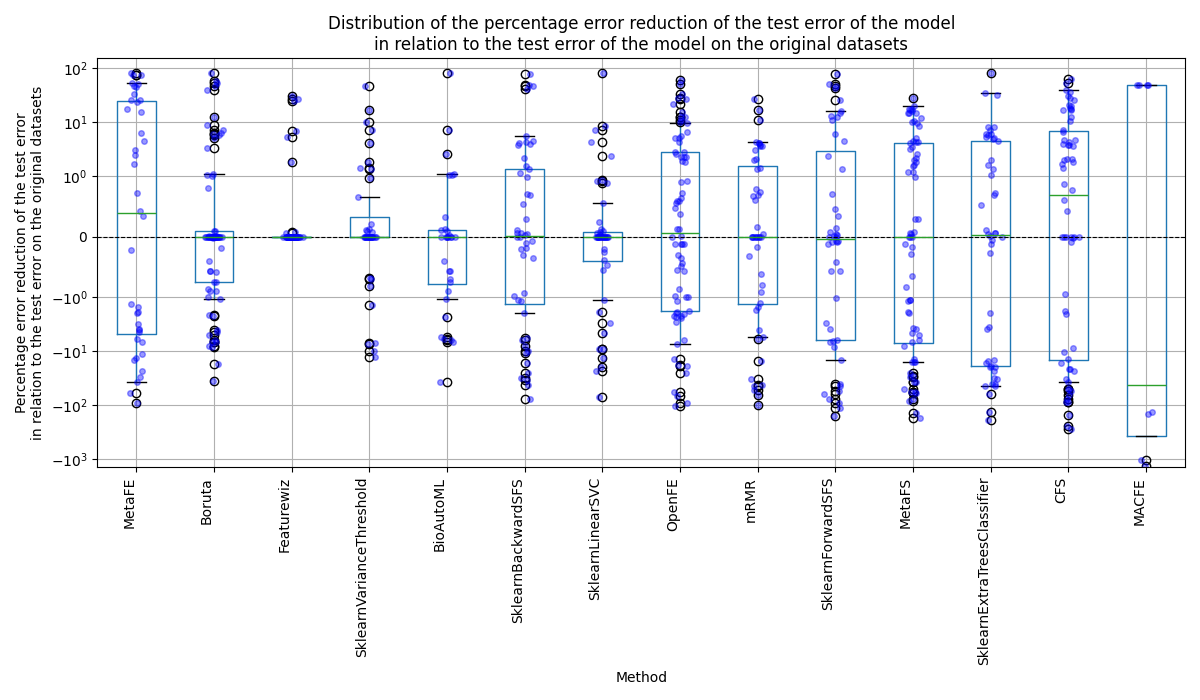
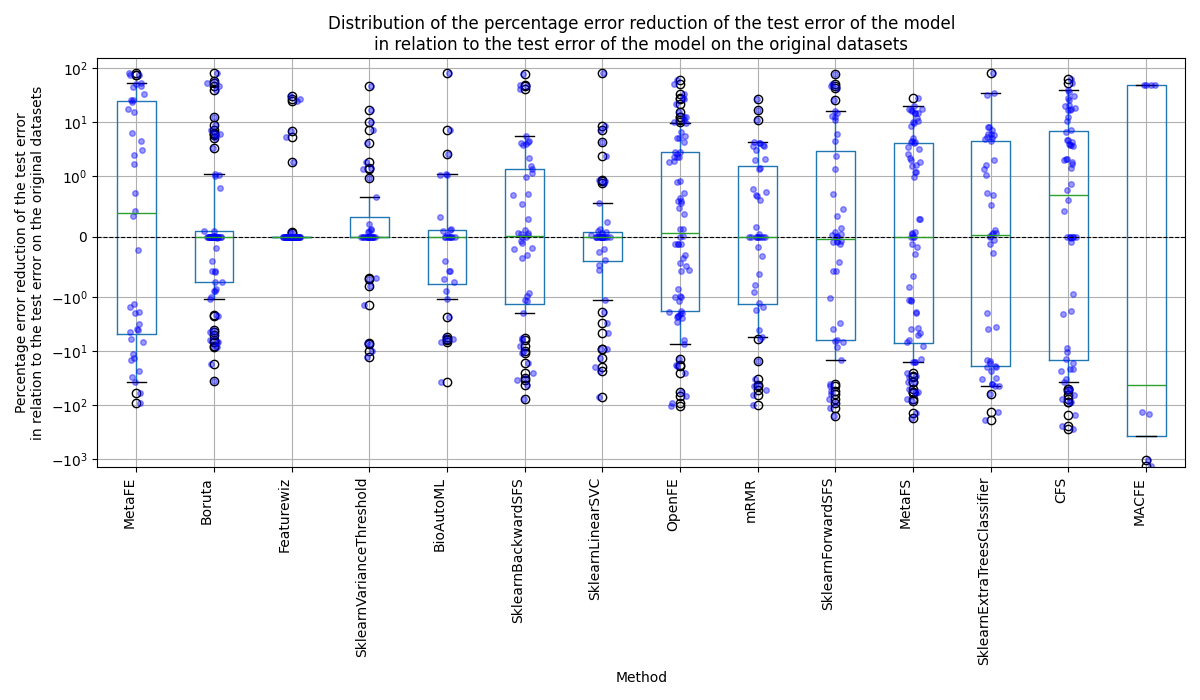
Replace without OpenFE by without FE and exclude MetaFE, too

diff --git a/src/results/analysis/analysis.py b/src/results/analysis/analysis.py
@@ -244,44 +244,27 @@ def get_data(result_files):
 
 
 def plot_score_graph(dataset_list_wrapped, df_pivot, df_pivot_std, name):
-    if "only_pandas" in name:
-        score_type = name.split("_")[0]
-        if score_type == "Val":
-            score_type = "validation"
-        else:
-            score_type = "test"
-        without_openfe = True
-        large_plot = False
-    elif "openfe_pandas" in name:
-        score_type = name.split("_")[0]
-        if score_type == "Val":
-            score_type = "validation"
-        else:
-            score_type = "test"
-        df_pivot.rename(columns={"Pandas, recursive SM": "MetaFE"}, inplace=True)
-        without_openfe = True
-        large_plot = False
-    elif "without_OpenFE" in name:
+    if "without_FE" in name:
         score_type = name.split("_")[0]
         if score_type == "Val":
             score_type = "validation"
         else:
             score_type = "test"
         large_plot = True
-        without_openfe = True
-        df_pivot = df_pivot.drop(columns=["OpenFE"])
+        without_fe = True
+        df_pivot = df_pivot.drop(columns=["OpenFE", "MetaFE"])
     else:
         if name == "Val":
             score_type = "validation"
         else:
             score_type = "test"
         large_plot = True
-        without_openfe = False
+        without_fe = False
         column_to_move = df_pivot.pop("OpenFE")
         df_pivot.insert(len(df_pivot.columns), "OpenFE", column_to_move)
         # if score_type == "test":
             # make_latex_tables_as_one(df_pivot, df_pivot_std, without_openfe)
-    if without_openfe:
+    if without_fe:
         colors = cm.get_cmap('nipy_spectral')
         color_list: list[ndarray | tuple[float, float, float, float]] = [colors(i) for i in np.linspace(0, 0.95, len(df_pivot.columns))]
     else:
@@ -290,7 +273,7 @@ def plot_score_graph(dataset_list_wrapped, df_pivot, df_pivot_std, name):
     dataset_list_wrapped = df_pivot.index.tolist()
     if large_plot:
         plt.figure(figsize=(12, 10))
-        if without_openfe:
+        if without_fe:
             for idx, method in enumerate(df_pivot.columns):
                 plt.plot(dataset_list_wrapped, df_pivot[method], marker='o', label=method, color=color_list[idx])
         else:
@@ -333,23 +316,7 @@ def plot_count_best(df_pivot_val, df_pivot_test, name):
 
 
 def plot_avg_percentage_impr(baseline_col, df_pivot, df_pivot_std, name, only_pandas=False):
-    if "only_pandas" in name:
-        score_type = name.split("_")[0]
-        if score_type == "Val":
-            score_type = "validation"
-        else:
-            score_type = "test"
-    elif "openfe_pandas" in name:
-        score_type = name.split("_")[0]
-        if score_type == "Val":
-            score_type = "validation"
-        else:
-            score_type = "test"
-        try:
-            df_pivot.rename(columns={"Pandas, recursive SM": "MetaFE"}, inplace=True)
-        except KeyError:
-            print("")
-    elif "without_OpenFE" in name:
+    if "without_FE" in name:
         score_type = name.split("_")[0]
         if score_type == "Val":
             score_type = "validation"
@@ -397,20 +364,7 @@ def plot_avg_percentage_impr(baseline_col, df_pivot, df_pivot_std, name, only_pa
 
 
 def plot_boxplot_percentage_impr(baseline_col, df_pivot, name):
-    if "only_pandas" in name:
-        score_type = name.split("_")[0]
-        if score_type == "Val":
-            score_type = "validation"
-        else:
-            score_type = "test"
-    elif "openfe_pandas" in name:
-        score_type = name.split("_")[0]
-        if score_type == "Val":
-            score_type = "validation"
-        else:
-            score_type = "test"
-        df_pivot.rename(columns={"Pandas, recursive SM": "MetaFE"}, inplace=True)
-    elif "without_OpenFE" in name:
+    if "without_FE" in name:
         score_type = name.split("_")[0]
         if score_type == "Val":
             score_type = "validation"
@@ -553,8 +507,8 @@ def analysis():
     plot_score_graph(dataset_list_wrapped, df_pivot_val, df_pivot_val_std, "Val")
     plot_score_graph(dataset_list_wrapped, df_pivot_test, df_pivot_test_std, "Test")
 
-    plot_score_graph(dataset_list_wrapped, df_pivot_val, df_pivot_val_std, "Val_without_OpenFE")
-    plot_score_graph(dataset_list_wrapped, df_pivot_test, df_pivot_test_std, "Test_without_OpenFE")
+    plot_score_graph(dataset_list_wrapped, df_pivot_val, df_pivot_val_std, "Val_without_FE")
+    plot_score_graph(dataset_list_wrapped, df_pivot_test, df_pivot_test_std, "Test_without_FE")
 
     plot_count_best(df_pivot_val, df_pivot_test, "")
     plot_avg_percentage_impr(baseline_col, df_pivot_val, df_pivot_val_std, "Val")
@@ -564,16 +518,16 @@ def analysis():
     plot_boxplot_percentage_impr(baseline_col, df_pivot_test, "Test")
 
     # Drop OpenFE column to compare MFE approaches
-    df_pivot_val_without_OpenFE = df_pivot_val
-    df_pivot_test_without_OpenFE = df_pivot_test
-    df_pivot_val_without_OpenFE.drop(columns=["OpenFE"], inplace=True)
-    df_pivot_test_without_OpenFE.drop(columns=["OpenFE"], inplace=True)
+    df_pivot_val_without_FE = df_pivot_val
+    df_pivot_test_without_FE = df_pivot_test
+    df_pivot_val_without_FE.drop(columns=["OpenFE", "MetaFE"], inplace=True)
+    df_pivot_test_without_FE.drop(columns=["OpenFE", "MetaFE"], inplace=True)
     # Plot again
-    plot_count_best(df_pivot_val_without_OpenFE, df_pivot_test_without_OpenFE, "without_OpenFE_")
-    plot_avg_percentage_impr(baseline_col, df_pivot_val_without_OpenFE, df_pivot_val_std, "Val_without_OpenFE")
-    plot_avg_percentage_impr(baseline_col, df_pivot_test_without_OpenFE, df_pivot_test_std, "Test_without_OpenFE")
-    plot_boxplot_percentage_impr(baseline_col, df_pivot_val_without_OpenFE, "Val_without_OpenFE")
-    plot_boxplot_percentage_impr(baseline_col, df_pivot_test_without_OpenFE, "Test_without_OpenFE")
+    plot_count_best(df_pivot_val_without_FE, df_pivot_test_without_FE, "without_FE_")
+    plot_avg_percentage_impr(baseline_col, df_pivot_val_without_FE, df_pivot_val_std, "Val_without_FE")
+    plot_avg_percentage_impr(baseline_col, df_pivot_test_without_FE, df_pivot_test_std, "Test_without_FE")
+    plot_boxplot_percentage_impr(baseline_col, df_pivot_val_without_FE, "Val_without_FE")
+    plot_boxplot_percentage_impr(baseline_col, df_pivot_test_without_FE, "Test_without_FE")
 
     """
     # Drop everything but pandas & original columns to compare SM approaches
